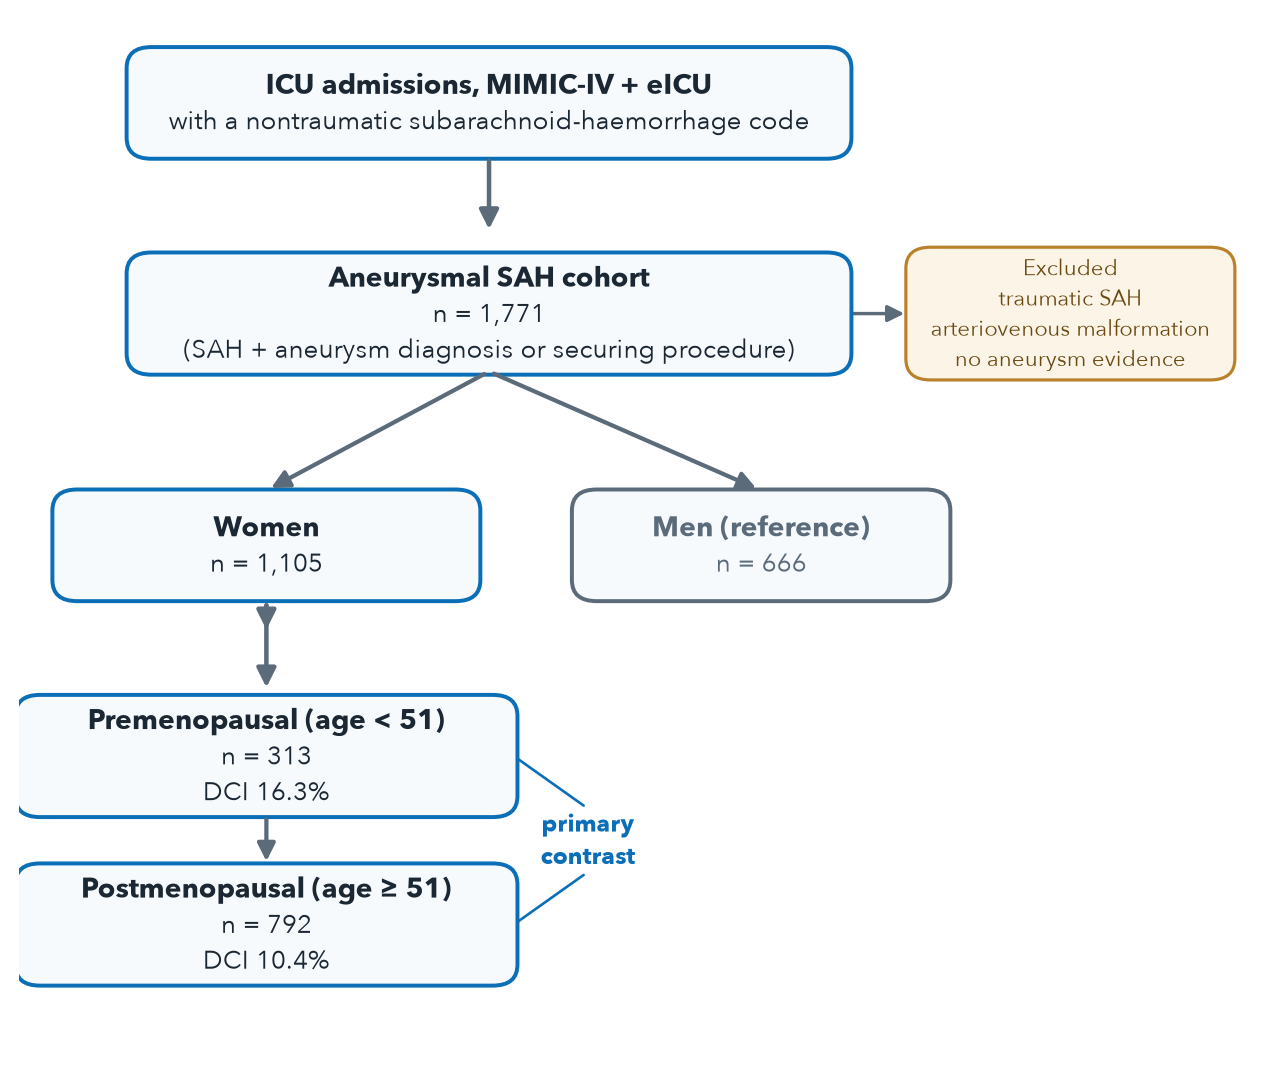
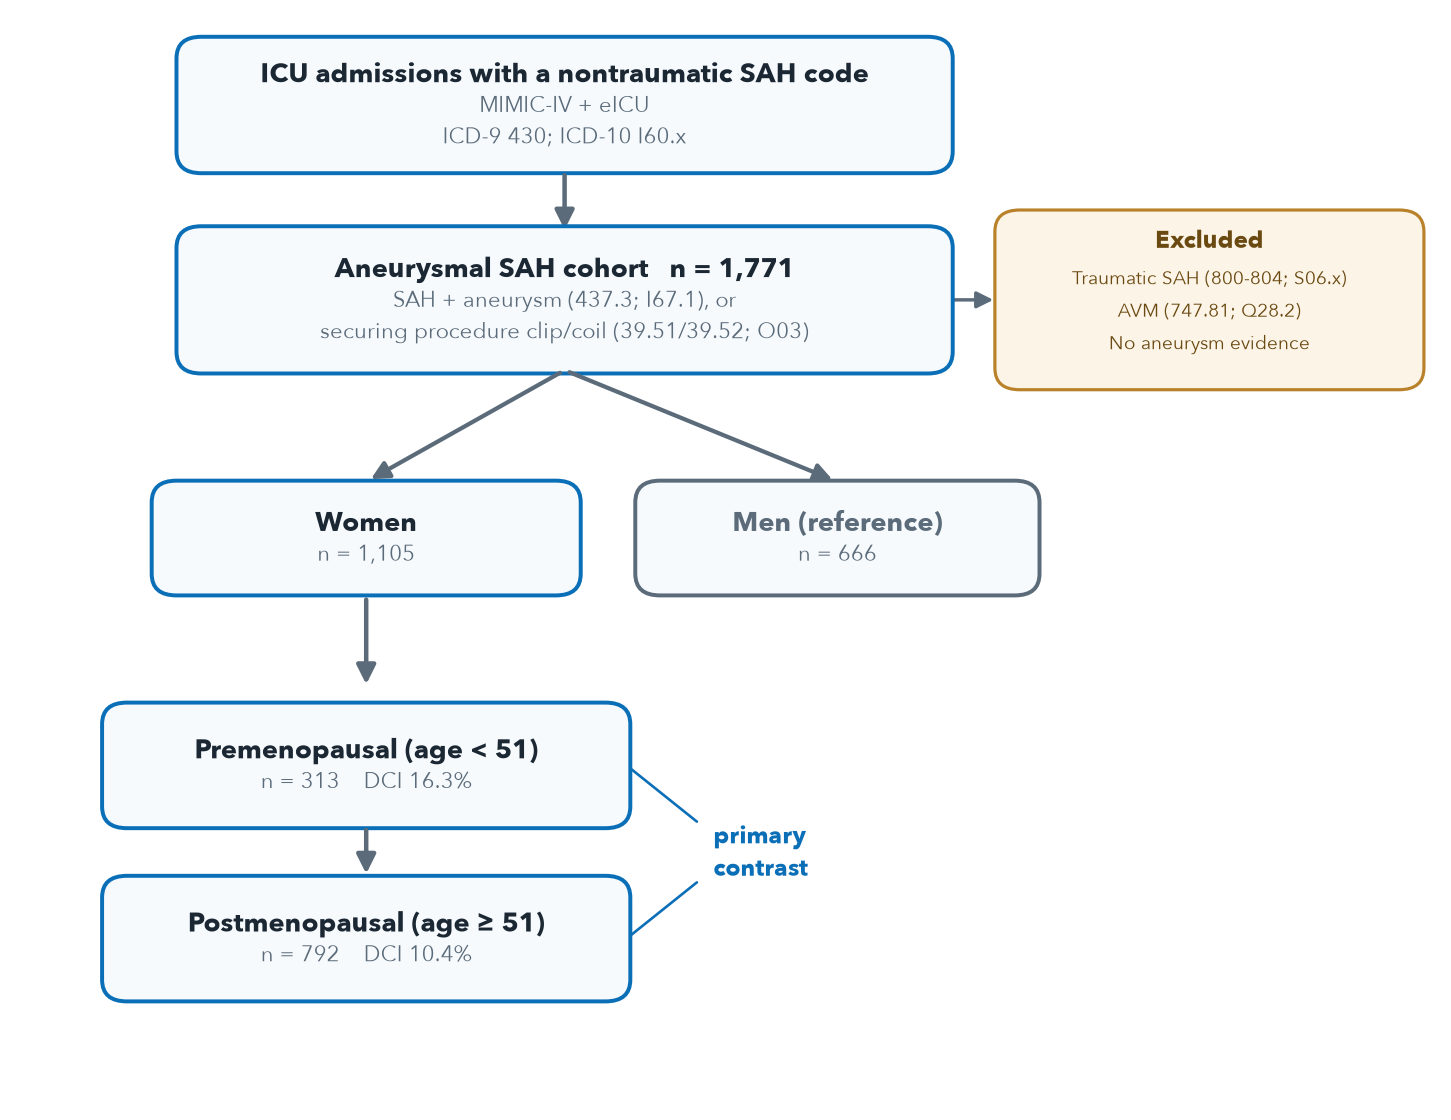
Refine Figure 3 (JAMA table style) and Figure 2 (flow with codes)
- Figure 3: monochrome, horizontal rules, shaded section headers, square markers
  with capped CIs, footnotes stating adjustment; separated favors labels
- Figure 2: fix left clipping; add ICD-9/10 codes and the exclusion codes
- FIGURES_AND_TABLES.md: add the adjustment details to the Figure 3 caption

Changed region(s): [[0.0306, 0.0312, 1.0, 0.9038]]

diff --git a/figures/results_forest_table.py b/figures/results_forest_table.py
@@ -1,96 +1,109 @@
-"""Figure 3. Results table with an embedded forest plot (JAMA/NEJM style).
+"""Figure 3. Results table with an embedded forest plot, JAMA table style.
 
-A single figure laid out as a table: text columns on the left and right, a central
-forest column on a shared log-odds-ratio axis with a reference line at OR = 1.
-Rows are grouped by design. Values are the final estimates from both arms.
+Horizontal rules only (no vertical gridlines or box), monochrome markers, square
+points with capped confidence intervals, grouped section headers with light
+shading, and footnotes. Values are the final estimates from both arms.
 """
 import matplotlib
 matplotlib.use("Agg")
 import numpy as np
 import matplotlib.pyplot as plt
-from matplotlib.patches import Circle
+from matplotlib.patches import Rectangle
 
-plt.rcParams.update({"font.family": ["Avenir Next", "Arial"], "font.size": 9.5})
-INK = "#1b2733"; MUTE = "#5b6b7a"; RED = "#c0392b"; GRID = "#e7ebef"
-BLUE = "#0B6FB8"; GREEN = "#0E8F6E"; ORANGE = "#C77A0A"
+plt.rcParams.update({"font.family": ["Helvetica Neue", "Arial"], "font.size": 9.5})
+INK = "#141414"; MARK = "#222222"; RULEC = "#141414"; GREY = "#8a8a8a"; SHADE = "#f0f0f0"
 
-# section, label, N text, OR, lo, hi, P text, colour
+# kind, label, No., OR, lo, hi, P, footnote-mark
 ROWS = [
-    ("H", "Observational (ICU cohort)", "", None, None, None, "", BLUE),
-    ("R", "Postmenopausal vs premenopausal", "1105", 0.86, 0.58, 1.28, ".46", BLUE),
-    ("R", "Age × sex difference-in-differences", "1771", 1.04, 0.62, 1.76, "", BLUE),
-    ("H", "Genetic (Mendelian randomization), aSAH", "", None, None, None, "", GREEN),
-    ("R", "Age at menopause, IVW", "85", 1.03, 0.97, 1.09, ".32", GREEN),
-    ("R", "Age at menopause, MR-Egger", "85", 1.10, 0.98, 1.24, ".10", GREEN),
-    ("R", "Age at menopause, weighted median", "85", 1.09, 1.00, 1.19, ".06", GREEN),
-    ("R", "SHBG, women", "82", 0.73, 0.41, 1.31, ".29", GREEN),
-    ("R", "Total testosterone", "58", 0.98, 0.77, 1.27, ".91", GREEN),
-    ("R", "SHBG, women (MVMR)", "106", 1.06, 0.50, 2.28, ".88", GREEN),
-    ("R", "Bioavailable testosterone (MVMR)", "106", 1.03, 0.57, 1.86, ".93", GREEN),
-    ("H", "Positive control", "", None, None, None, "", ORANGE),
-    ("R", "Age at menopause → breast cancer", "207", 1.055, 1.041, 1.069, "<.001", ORANGE),
+    ("H", "Observational (ICU cohort)", "", None, None, None, "", ""),
+    ("R", "Postmenopausal vs premenopausal", "1105", 0.86, 0.58, 1.28, ".46", "a"),
+    ("R", "Age × sex difference-in-differences", "1771", 1.04, 0.62, 1.76, "", "a"),
+    ("H", "Genetic (Mendelian randomization), aSAH", "", None, None, None, "", ""),
+    ("R", "Age at menopause, IVW", "85", 1.03, 0.97, 1.09, ".32", "b"),
+    ("R", "Age at menopause, MR-Egger", "85", 1.10, 0.98, 1.24, ".10", "b"),
+    ("R", "Age at menopause, weighted median", "85", 1.09, 1.00, 1.19, ".06", "b"),
+    ("R", "SHBG, women", "82", 0.73, 0.41, 1.31, ".29", "b"),
+    ("R", "Total testosterone", "58", 0.98, 0.77, 1.27, ".91", "b"),
+    ("R", "SHBG, women, MVMR", "106", 1.06, 0.50, 2.28, ".88", "c"),
+    ("R", "Bioavailable testosterone, MVMR", "106", 1.03, 0.57, 1.86, ".93", "c"),
+    ("H", "Positive control", "", None, None, None, "", ""),
+    ("R", "Age at menopause and breast cancer", "207", 1.055, 1.041, 1.069, "<.001", "d"),
 ]
 
-# column x-positions (0-100) and forest axis
-X_LBL, X_N = 1.5, 44
-FX_L, FX_R = 47, 74          # forest column pixels
+X_LBL, X_N = 1.5, 43
+FX_L, FX_R = 46, 70
 OR_LO, OR_HI = 0.4, 2.6
-X_CI, X_P = 76.5, 99
+X_CI, X_P = 72.5, 99
 TICKS = [0.5, 0.75, 1.0, 1.5, 2.0]
 
 def fx(orr):
     return FX_L + (np.log(orr) - np.log(OR_LO)) / (np.log(OR_HI) - np.log(OR_LO)) * (FX_R - FX_L)
 
 n = len(ROWS)
-fig, ax = plt.subplots(figsize=(9.6, 0.5 * n + 1.6))
+fig, ax = plt.subplots(figsize=(9.4, 0.52 * n + 2.2))
 ax.axis("off"); ax.set_xlim(0, 100)
-top = n + 1.2
-ax.set_ylim(-1.4, top + 1.2)
+top = n + 1.0
+ax.set_ylim(-3.6, top + 1.4)
 
-# column headers
-hy = top
+# top rule + column headers + header rule
+ax.plot([0, 100], [top + 0.9, top + 0.9], color=RULEC, lw=1.6)
 for x, t, ha in [(X_LBL, "Analysis", "left"), (X_N, "No.", "right"),
-                 (X_CI, "OR (95% CI)", "left"), (X_P, "P", "right")]:
-    ax.text(x, hy, t, ha=ha, va="center", fontsize=9.5, fontweight="bold", color=INK)
-ax.text((FX_L + FX_R) / 2, hy, "Odds ratio (95% CI)", ha="center", va="center",
-        fontsize=9.5, fontweight="bold", color=INK)
-ax.plot([0.5, 99.5], [hy - 0.55, hy - 0.55], color=INK, lw=1.1)
+                 (X_CI, "OR (95% CI)", "left"), (X_P, "P Value", "right")]:
+    ax.text(x, top + 0.1, t, ha=ha, va="center", fontsize=9.5, fontweight="bold", color=INK)
+ax.plot([0, 100], [top - 0.55, top - 0.55], color=RULEC, lw=1.0)
 
-# forest gridlines + reference line spanning data rows
-y_bottom = 0.4
-for orr in TICKS:
-    ax.plot([fx(orr), fx(orr)], [y_bottom, hy - 0.7], color=GRID, lw=0.9, zorder=0)
-ax.plot([fx(1.0), fx(1.0)], [y_bottom, hy - 0.7], color=RED, ls="--", lw=1.2, zorder=1)
+y0 = top - 1.5
+# reference line at OR=1 spanning the data rows
+ax.plot([fx(1.0), fx(1.0)], [-0.4, top - 0.7], color=GREY, lw=0.9, zorder=0)
 
-# rows
-y = top - 1.1
-for kind, label, ntxt, orr, lo, hi, ptxt, c in ROWS:
+y = y0
+for kind, label, ntxt, orr, lo, hi, ptxt, fn in ROWS:
     if kind == "H":
-        ax.text(X_LBL, y, label, ha="left", va="center", fontsize=9.4,
-                fontweight="bold", color=c)
+        ax.add_patch(Rectangle((0, y - 0.5), 100, 1.0, facecolor=SHADE, edgecolor="none", zorder=0))
+        ax.text(X_LBL, y, label, ha="left", va="center", fontsize=9.3, fontweight="bold", color=INK)
     else:
-        ax.text(X_LBL + 1.5, y, label, ha="left", va="center", fontsize=9.2, color=INK)
-        ax.text(X_N, y, ntxt, ha="right", va="center", fontsize=9.0, color=MUTE)
-        ax.plot([fx(lo), fx(hi)], [y, y], color=c, lw=2.0, solid_capstyle="round", zorder=3)
-        ax.add_patch(Circle((fx(orr), y), 0.16, facecolor=c, edgecolor="white", lw=0.6,
-                            zorder=4, transform=ax.transData))
-        ax.text(X_CI, y, f"{orr:.2f} ({lo:.2f}–{hi:.2f})", ha="left", va="center",
+        lab = label + (f"$^{{{fn}}}$" if fn else "")
+        ax.text(X_LBL + 1.2, y, lab, ha="left", va="center", fontsize=9.2, color=INK)
+        ax.text(X_N, y, ntxt, ha="right", va="center", fontsize=9.0, color=INK)
+        # CI line with end caps + square marker
+        ax.plot([fx(lo), fx(hi)], [y, y], color=MARK, lw=1.2, zorder=3)
+        for xe in (fx(lo), fx(hi)):
+            ax.plot([xe, xe], [y - 0.16, y + 0.16], color=MARK, lw=1.2, zorder=3)
+        ax.scatter([fx(orr)], [y], marker="s", s=26, color=MARK, zorder=4)
+        ax.text(X_CI, y, f"{orr:.2f} ({lo:.2f}-{hi:.2f})", ha="left", va="center",
                 fontsize=9.0, color=INK)
         ax.text(X_P, y, ptxt, ha="right", va="center", fontsize=9.0, color=INK)
     y -= 1.0
 
-# forest axis ticks
-for orr in TICKS:
-    ax.text(fx(orr), y_bottom - 0.55, f"{orr:g}", ha="center", va="top", fontsize=8, color=MUTE)
-ax.annotate("", xy=(fx(0.62), y_bottom - 1.15), xytext=(fx(0.9), y_bottom - 1.15),
-            arrowprops=dict(arrowstyle="->", color=MUTE, lw=1))
-ax.annotate("", xy=(fx(1.6), y_bottom - 1.15), xytext=(fx(1.11), y_bottom - 1.15),
-            arrowprops=dict(arrowstyle="->", color=MUTE, lw=1))
-ax.text(fx(0.62), y_bottom - 1.7, "protective", ha="center", fontsize=7.6, color=MUTE)
-ax.text(fx(1.6), y_bottom - 1.7, "harmful", ha="center", fontsize=7.6, color=MUTE)
+bottom = y + 0.5
+ax.plot([0, 100], [bottom, bottom], color=RULEC, lw=1.6)
 
-ax.set_title("Estrogen and aneurysmal SAH: estimates across both designs",
-             fontsize=11.5, fontweight="bold", pad=10, loc="left", x=0.01)
+# forest axis
+for orr in TICKS:
+    ax.plot([fx(orr), fx(orr)], [bottom, bottom - 0.28], color=INK, lw=0.9)
+    ax.text(fx(orr), bottom - 0.85, f"{orr:g}", ha="center", va="top", fontsize=8, color=INK)
+ax.annotate("", xy=(fx(0.52), bottom - 1.7), xytext=(fx(0.85), bottom - 1.7),
+            arrowprops=dict(arrowstyle="->", color=INK, lw=0.9))
+ax.annotate("", xy=(fx(1.9), bottom - 1.7), xytext=(fx(1.18), bottom - 1.7),
+            arrowprops=dict(arrowstyle="->", color=INK, lw=0.9))
+ax.text(fx(1.0) - 1.4, bottom - 2.3, "Favors lower risk", ha="right", fontsize=7.2, color=INK)
+ax.text(fx(1.0) + 1.4, bottom - 2.3, "Favors higher risk", ha="left", fontsize=7.2, color=INK)
+
+# footnotes
+fns = [
+    "Abbreviations: aSAH, aneurysmal subarachnoid haemorrhage; IVW, inverse-variance weighted;",
+    "MVMR, multivariable Mendelian randomization; OR, odds ratio; SHBG, sex hormone-binding globulin.",
+    "$^{a}$Adjusted for hypertension, smoking, and diabetes, with cluster-robust SEs by hospital; age is",
+    "excluded because it defines the exposure.  $^{b}$Two-sample MR, random-effects IVW unless noted.",
+    "$^{c}$Multivariable MR, mutually adjusted for the other hormone.  $^{d}$Different outcome (breast",
+    "cancer), shown to validate the genetic pipeline.",
+]
+fy = bottom - 3.0
+for i, t in enumerate(fns):
+    ax.text(0, fy - i * 0.62, t, ha="left", va="top", fontsize=7.2, color="#333")
+
+ax.text(0, top + 2.0, "Table. Estimates for estrogen and aneurysmal SAH across both study designs",
+        ha="left", fontsize=11, fontweight="bold", color=INK)
 fig.savefig("/Volumes/Niels 2/MIMIC/estrogen-asah-two-designs/figures/results_forest_table.png",
-            dpi=190, bbox_inches="tight", facecolor="white")
+            dpi=200, bbox_inches="tight", facecolor="white")
 print("saved")

diff --git a/figures/cohort_flow.py b/figures/cohort_flow.py
@@ -1,4 +1,4 @@
-"""Figure 2. Participant flow (STROBE) for the observational cohort."""
+"""Figure 2. Participant flow (STROBE) for the observational cohort, with codes."""
 import matplotlib
 matplotlib.use("Agg")
 import matplotlib.pyplot as plt
@@ -7,19 +7,20 @@ from matplotlib.patches import FancyArrowPatch, FancyBboxPatch
 plt.rcParams.update({"font.family": ["Avenir Next", "Arial"], "font.size": 10})
 INK = "#1b2733"; BLUE = "#0B6FB8"; MUTE = "#5b6b7a"; PANEL = "#F6FAFD"
 
-fig, ax = plt.subplots(figsize=(8.4, 7.2)); ax.axis("off")
-ax.set_xlim(0, 100); ax.set_ylim(0, 100)
+fig, ax = plt.subplots(figsize=(9.6, 7.4)); ax.axis("off")
+ax.set_xlim(-6, 108); ax.set_ylim(0, 100)
 
 
-def box(x, y, w, h, lines, fc=PANEL, ec=BLUE, fs=10, tc=INK, bold_first=False):
+def box(x, y, w, h, title, subs=(), fc=PANEL, ec=BLUE, tc=INK):
     ax.add_patch(FancyBboxPatch((x - w / 2, y - h / 2), w, h,
                  boxstyle="round,pad=0.3,rounding_size=2", fc=fc, ec=ec, lw=1.5))
-    total = (len(lines) - 1) * 3.4
-    yy = y + total / 2
-    for i, ln in enumerate(lines):
-        ax.text(x, yy, ln, ha="center", va="center", fontsize=fs + (0.6 if bold_first and i == 0 else 0),
-                fontweight="bold" if bold_first and i == 0 else "normal", color=tc)
-        yy -= 3.4
+    n = 1 + len(subs)
+    yy = y + (n - 1) * 2.9 / 2
+    ax.text(x, yy, title, ha="center", va="center", fontsize=10.3, fontweight="bold", color=tc)
+    yy -= 2.9
+    for s in subs:
+        ax.text(x, yy, s, ha="center", va="center", fontsize=8.3, color=MUTE)
+        yy -= 2.9
 
 
 def down(x, y1, y2):
@@ -28,38 +29,41 @@ def down(x, y1, y2):
 
 
 CX = 38
-box(CX, 92, 58, 10, ["ICU admissions, MIMIC-IV + eICU",
-                     "with a nontraumatic subarachnoid-haemorrhage code"], bold_first=True)
-down(CX, 87, 79.5)
-# exclusion note
-ax.add_patch(FancyBboxPatch((72, 66), 26, 12, boxstyle="round,pad=0.3,rounding_size=2",
+box(CX, 92, 62, 12, "ICU admissions with a nontraumatic SAH code",
+    ["MIMIC-IV + eICU", "ICD-9 430; ICD-10 I60.x"])
+down(CX, 86, 80)
+
+# exclusion note (clear of the main column, to the right)
+ex_x, ex_y = 90, 74
+ax.add_patch(FancyBboxPatch((ex_x - 17, ex_y - 8), 34, 16, boxstyle="round,pad=0.3,rounding_size=2",
              fc="#FBF4E7", ec="#B9812A", lw=1.2))
-ax.text(85, 72, "Excluded\ntraumatic SAH\narteriovenous malformation\nno aneurysm evidence",
-        ha="center", va="center", fontsize=8.4, color="#6b4a12")
-ax.add_patch(FancyArrowPatch((CX + 29, 72), (72, 72), arrowstyle="-|>", mutation_scale=13,
+ax.text(ex_x, ex_y + 5.5, "Excluded", ha="center", va="center", fontsize=9,
+        fontweight="bold", color="#6b4a12")
+for i, s in enumerate(["Traumatic SAH (800-804; S06.x)", "AVM (747.81; Q28.2)",
+                       "No aneurysm evidence"]):
+    ax.text(ex_x, ex_y + 2 - i * 3, s, ha="center", va="center", fontsize=7.2, color="#6b4a12")
+ax.add_patch(FancyArrowPatch((CX + 31, 74), (ex_x - 17, 74), arrowstyle="-|>", mutation_scale=13,
              color=MUTE, lw=1.3))
 
-box(CX, 72, 58, 11, ["Aneurysmal SAH cohort", "n = 1,771",
-                     "(SAH + aneurysm diagnosis or securing procedure)"], bold_first=True)
+box(CX, 74, 62, 13, "Aneurysmal SAH cohort   n = 1,771",
+    ["SAH + aneurysm (437.3; I67.1), or", "securing procedure clip/coil (39.51/39.52; O03)"])
 # split women / men
-box(20, 50, 34, 10, ["Women", "n = 1,105"], bold_first=True)
-box(60, 50, 30, 10, ["Men (reference)", "n = 666"], ec=MUTE, tc=MUTE, bold_first=True)
-ax.add_patch(FancyArrowPatch((CX, 66.5), (20, 55.2), arrowstyle="-|>", mutation_scale=14,
+box(22, 52, 34, 10, "Women", ["n = 1,105"])
+box(60, 52, 32, 10, "Men (reference)", ["n = 666"], ec=MUTE, tc=MUTE)
+ax.add_patch(FancyArrowPatch((CX, 67.5), (22, 57.2), arrowstyle="-|>", mutation_scale=14,
              color=MUTE, lw=1.6))
-ax.add_patch(FancyArrowPatch((CX, 66.5), (60, 55.2), arrowstyle="-|>", mutation_scale=14,
+ax.add_patch(FancyArrowPatch((CX, 67.5), (60, 57.2), arrowstyle="-|>", mutation_scale=14,
              color=MUTE, lw=1.6))
-down(20, 44.8, 36)
+down(22, 46.8, 38)
 # strata
-box(20, 30, 40, 11, ["Premenopausal (age < 51)", "n = 313", "DCI 16.3%"], bold_first=True)
-down(20, 44.8, 41.5)
-box(20, 14, 40, 11, ["Postmenopausal (age ≥ 51)", "n = 792", "DCI 10.4%"], ec=BLUE, bold_first=True)
-ax.add_patch(FancyArrowPatch((20, 24.5), (20, 19.5), arrowstyle="-|>", mutation_scale=14,
-             color=MUTE, lw=1.6))
+box(22, 31, 42, 11, "Premenopausal (age < 51)", ["n = 313    DCI 16.3%"])
+down(22, 25.5, 20.5)
+box(22, 15, 42, 11, "Postmenopausal (age ≥ 51)", ["n = 792    DCI 10.4%"], ec=BLUE)
 # primary contrast bracket
-ax.text(46, 22, "primary\ncontrast", ha="center", va="center", fontsize=9,
+ax.text(50, 23, "primary\ncontrast", ha="left", va="center", fontsize=9,
         color=BLUE, fontweight="bold")
-ax.annotate("", xy=(40, 30), xytext=(46, 25), arrowprops=dict(arrowstyle="-", color=BLUE, lw=1))
-ax.annotate("", xy=(40, 14), xytext=(46, 19), arrowprops=dict(arrowstyle="-", color=BLUE, lw=1))
+ax.annotate("", xy=(43, 31), xytext=(49, 25.5), arrowprops=dict(arrowstyle="-", color=BLUE, lw=1))
+ax.annotate("", xy=(43, 15), xytext=(49, 20.5), arrowprops=dict(arrowstyle="-", color=BLUE, lw=1))
 
 fig.savefig("/Volumes/Niels 2/MIMIC/estrogen-asah-two-designs/figures/cohort_flow.png",
             dpi=190, bbox_inches="tight", facecolor="white")

diff --git a/FIGURES_AND_TABLES.md b/FIGURES_AND_TABLES.md
@@ -42,6 +42,13 @@ menopausal stratum; genetic estimates are per year or per standard deviation of 
 exposure; the positive control (menopause → breast cancer) is a different outcome
 shown to validate the genetic pipeline.
 
+Adjustment: the observational estimates are adjusted for hypertension, smoking, and
+diabetes, with cluster-robust standard errors by hospital; age is deliberately not
+adjusted for because it defines the exposure (adjusting for it removes the contrast).
+The genetic estimates are two-sample Mendelian randomization, random-effects IVW
+unless a method is named; the two multivariable-MR rows are mutually adjusted for
+the other hormone. The positive control is univariable (unadjusted) MR.
+
 ![Results forest table](figures/results_forest_table.png)
 
 ## Table 1. Baseline characteristics of the aSAH cohort, by menopausal stratum